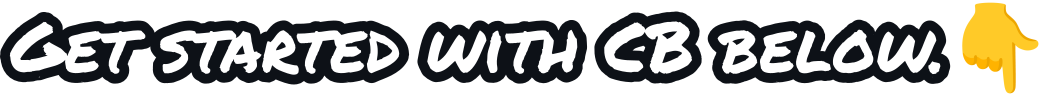
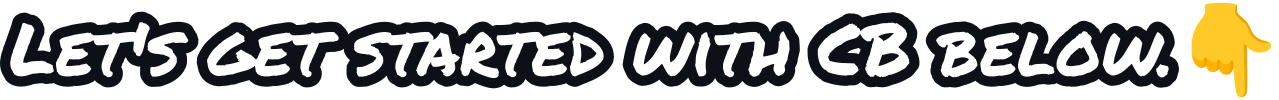
Fix height, reword image [skip ci]

diff --git a/README.md b/README.md
@@ -48,7 +48,7 @@ In short, we're here to help you save time and effort.
 <br>
 
 <p align="center">
-    <img src="documentation/readme-assets/GetStartedBelow.png" alt="Get started with CB below." height="35px" />
+    <img src="documentation/readme-assets/GetStartedBelow.png" alt="Get started with CB below." height="40px" />
 </p>
 
 <br>
